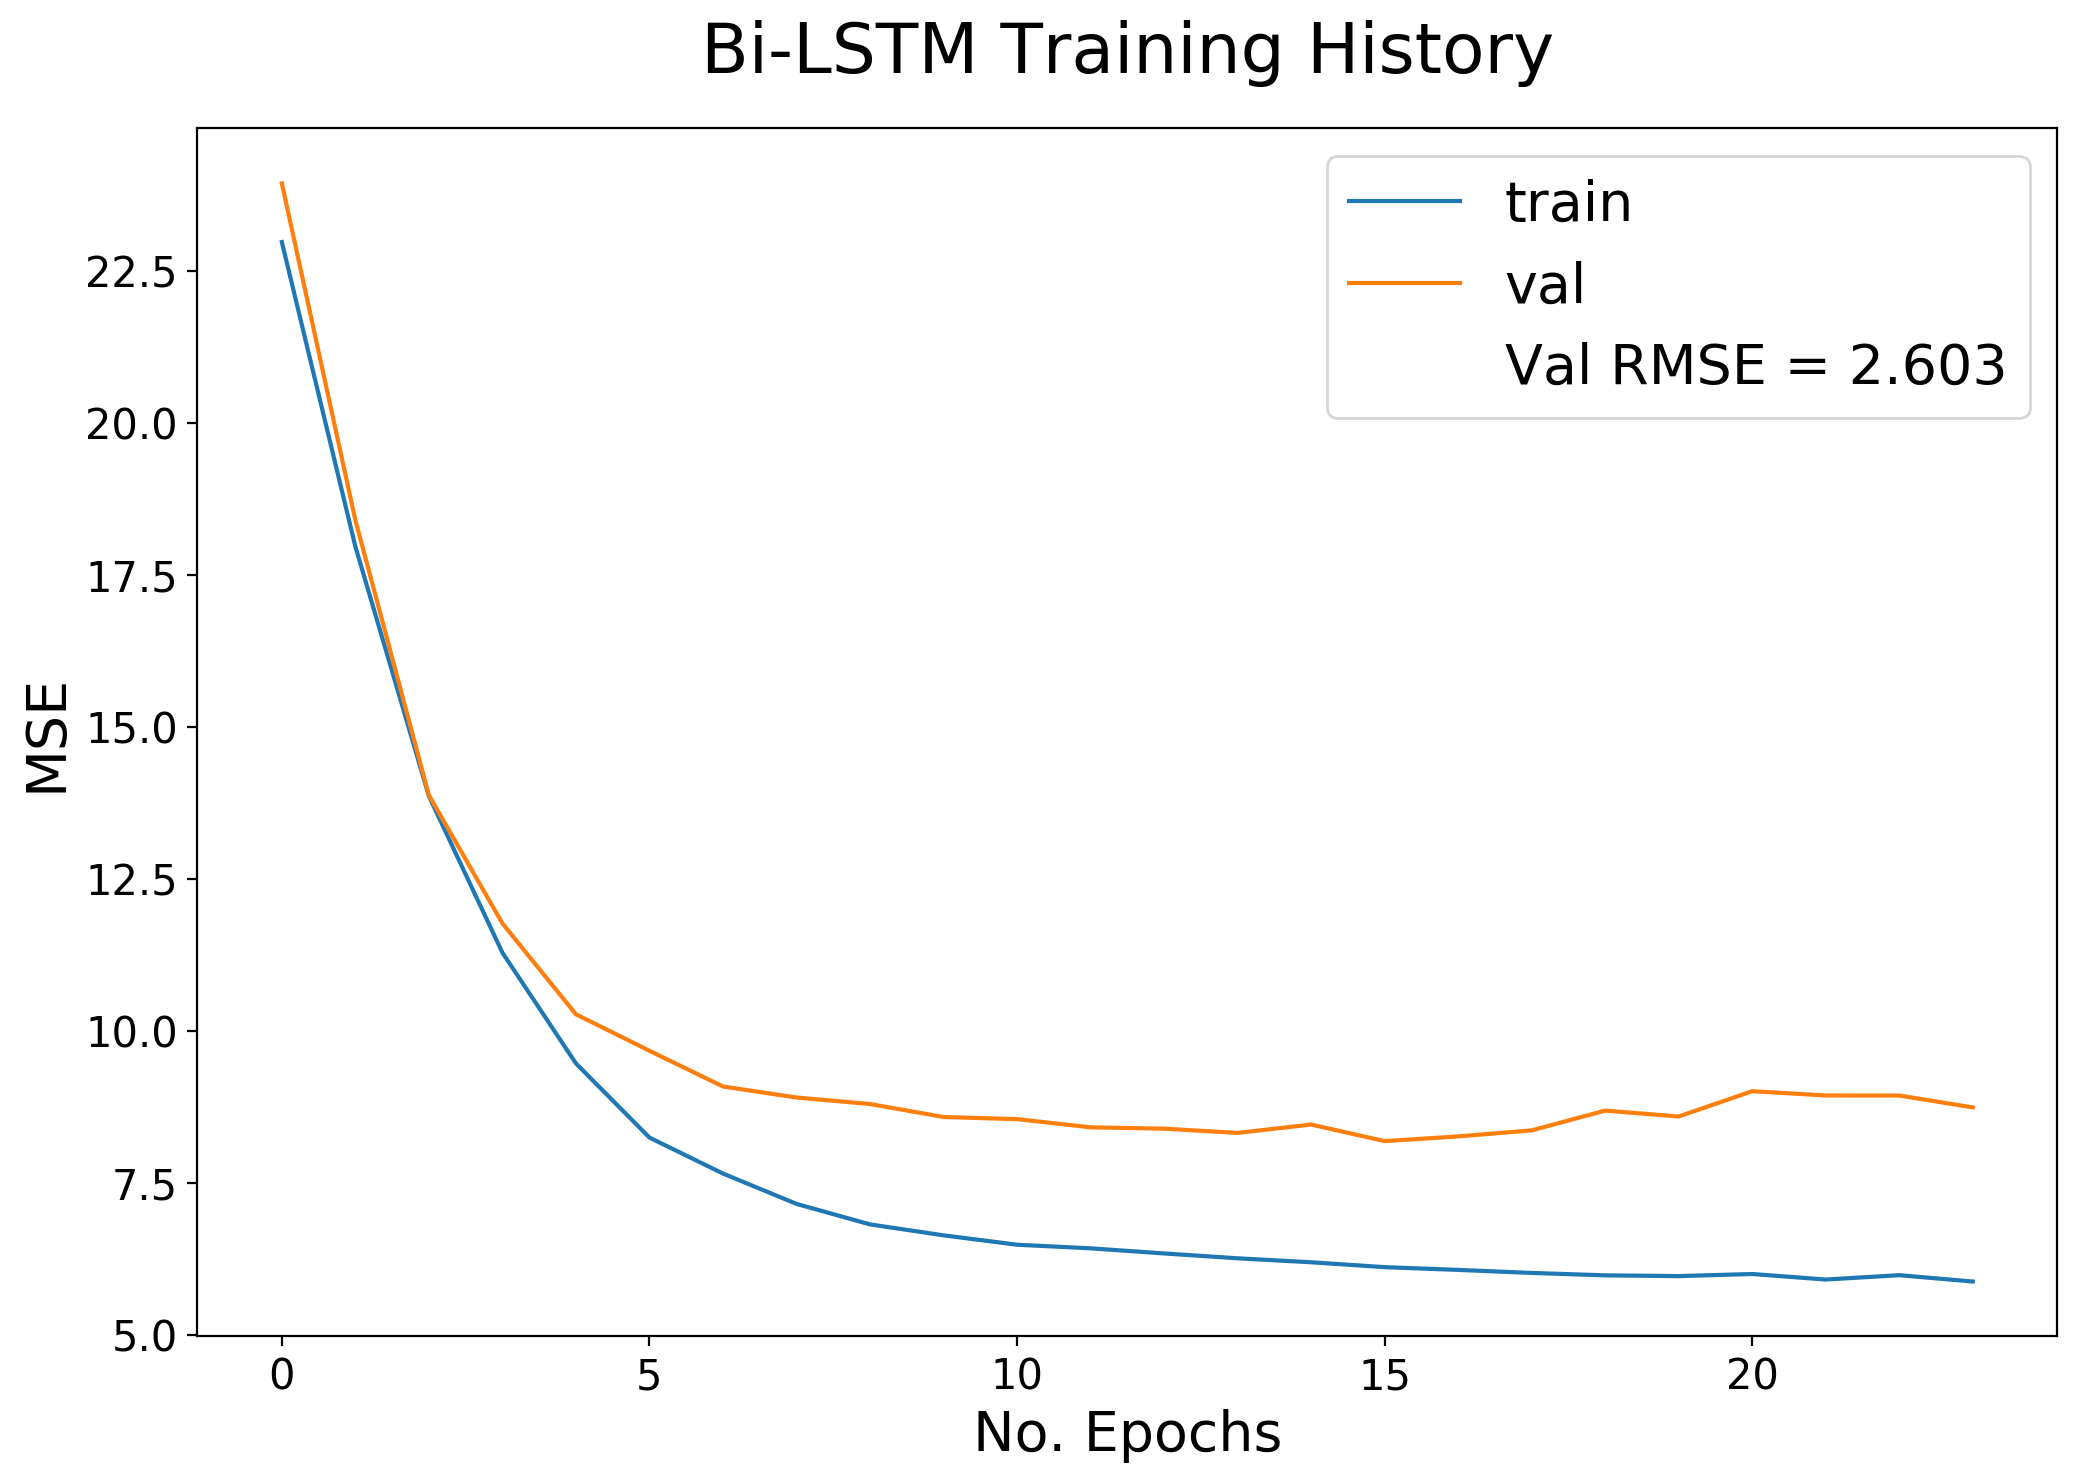
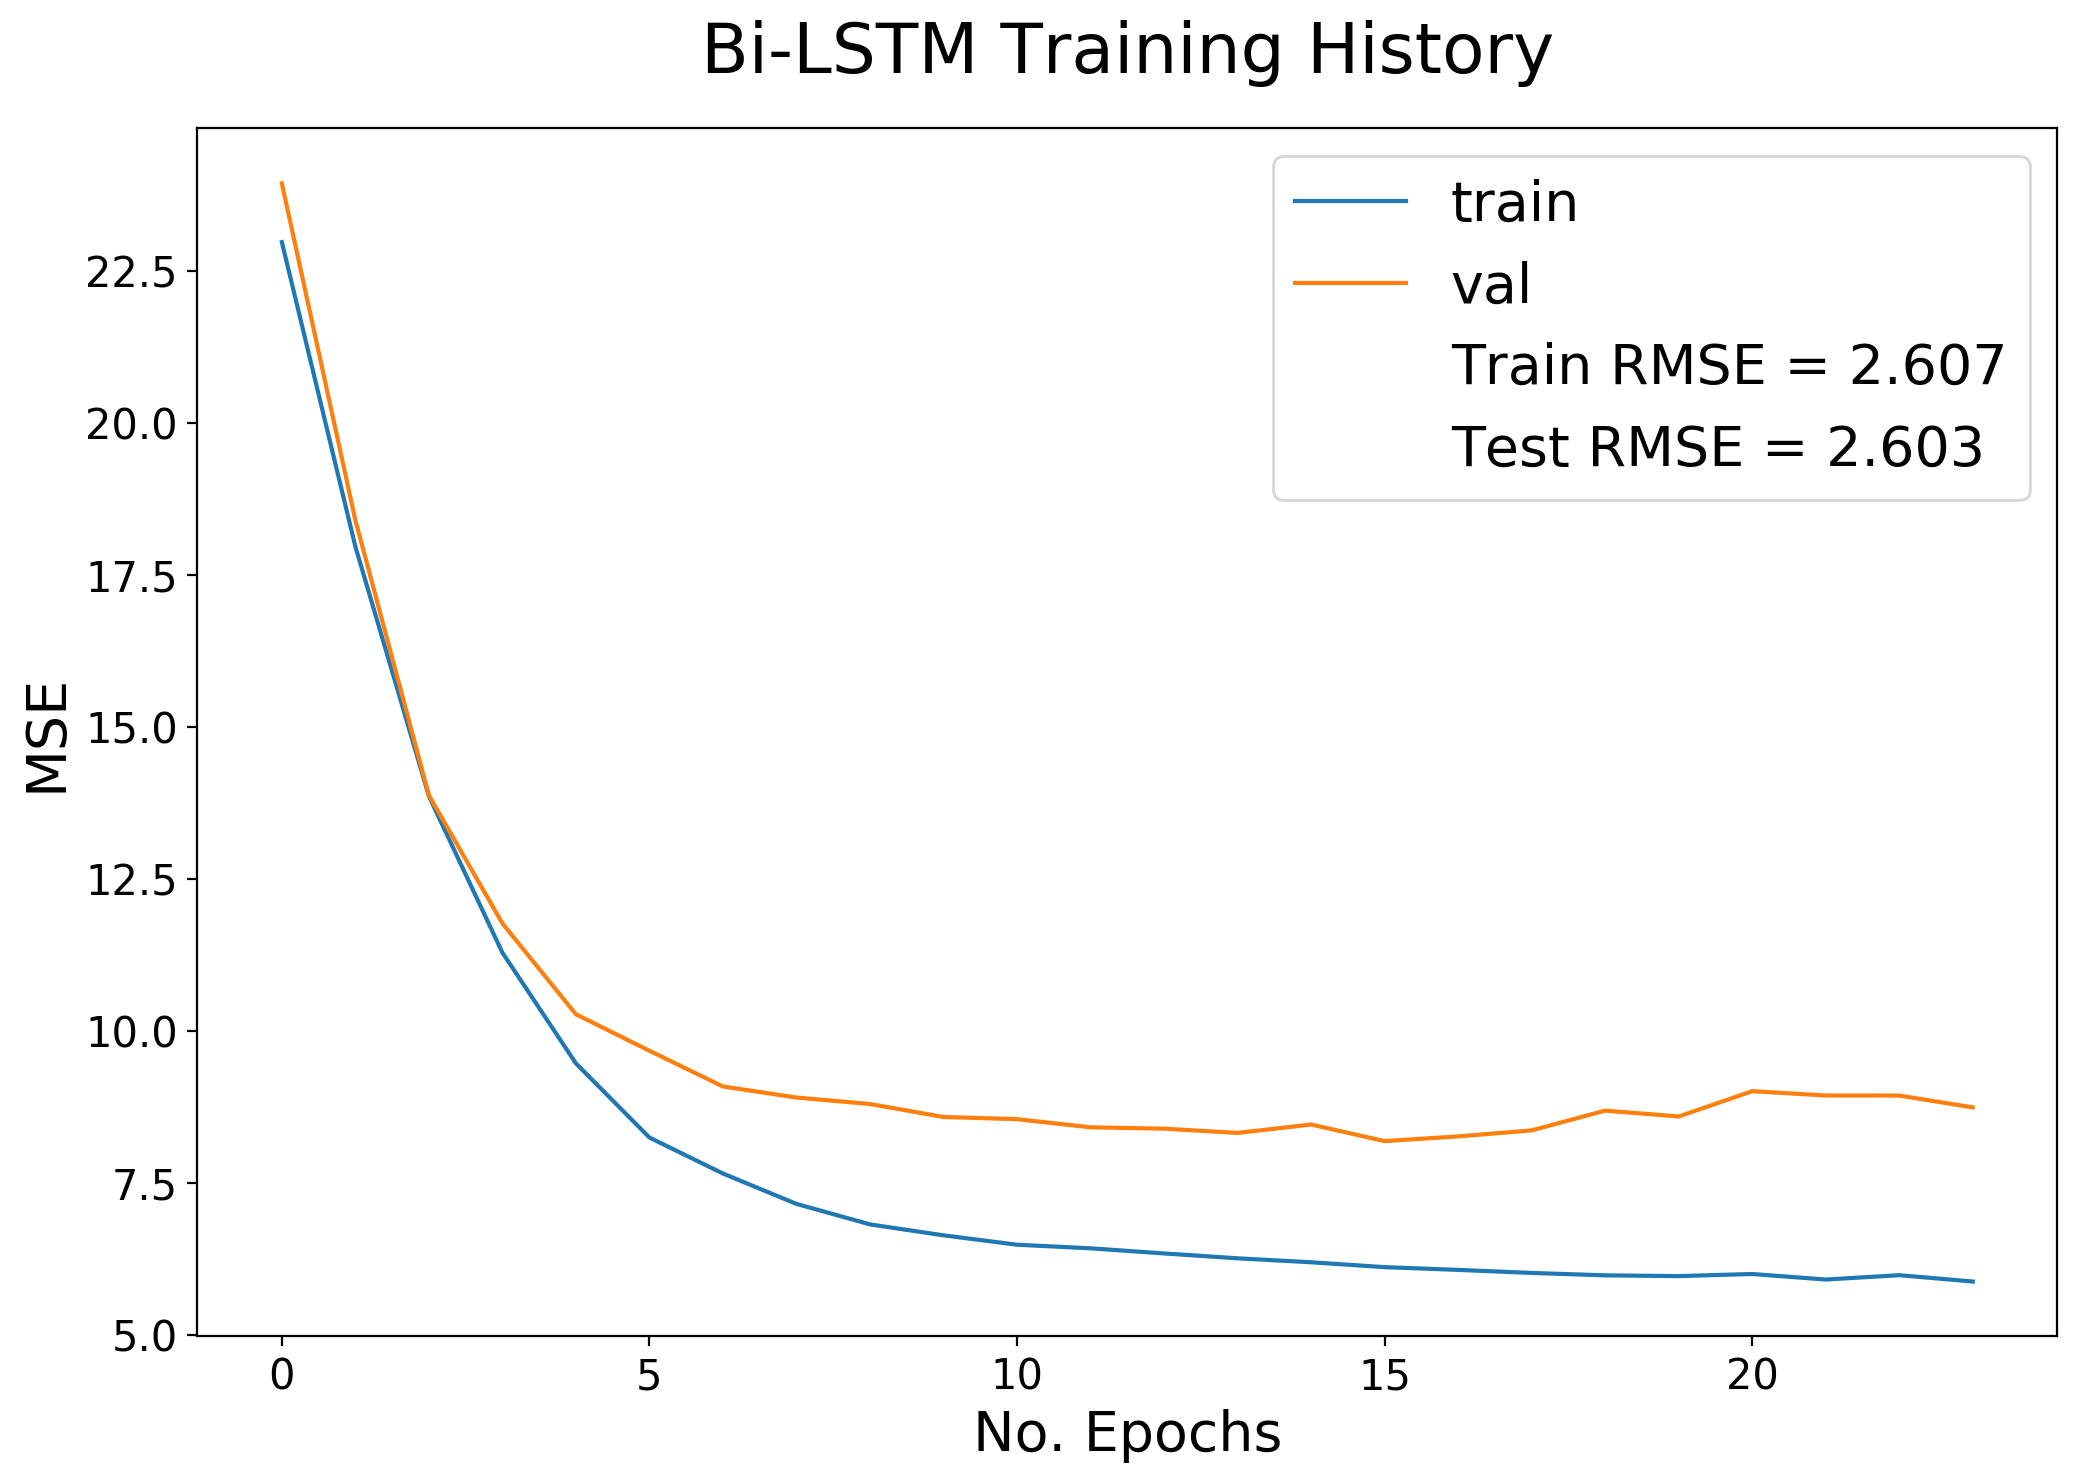
Update training history images

diff --git a/3_prediction.py b/3_prediction.py
@@ -370,15 +370,19 @@ def train_model(model, train_X, train_y, epochs=200, verbose = 2):
                     callbacks=[earlystopping])
     return history
 
-def plot_training_history(model_name, model, history, test_X, test_y):
-    rmse = model.evaluate(test_X, test_y, verbose = 0) ** 0.5
-    print('RMSE (float) = {:.3f}'.format(rmse))
+def plot_training_history(model_name, model, history, train_X, train_y, test_X, test_y):
+    train_rmse = model.evaluate(train_X, train_y, verbose = 0) ** 0.5
+    print('Train RMSE (float) = {:.3f}'.format(train_rmse))
+
+    test_rmse = model.evaluate(test_X, test_y, verbose = 0) ** 0.5
+    print('Test RMSE (float) = {:.3f}'.format(test_rmse))
 
     title = '{} Training History'.format(model_name)
     plt.figure(figsize=(12, 8))
     plt.plot(history.history['loss'], label='train')
     plt.plot(history.history['val_loss'], label='val')
-    plt.plot([], [], ' ', label='Val RMSE = {:.3f}'.format(rmse))
+    plt.plot([], [], ' ', label='Train RMSE = {:.3f}'.format(train_rmse))
+    plt.plot([], [], ' ', label='Test RMSE = {:.3f}'.format(test_rmse))
     plt.legend(fontsize = 20)
     plt.title(title, size = 25, pad=20)
     plt.xlabel('No. Epochs', fontsize = 20)
@@ -566,7 +570,7 @@ fig.savefig(WORKING_DIR + '/results/scores_mean', dpi = 200, bbox_inches = 'tigh
 """Build Single Model"""
 lstm = build_lstm(train_X, train_y)
 history = train_model(lstm, train_X, train_y.values)
-plot_training_history('LSTM', lstm, history, test_X, test_y.values)
+plot_training_history('LSTM', lstm, history, train_X, train_y.values, test_X, test_y.values)
 
 lstm_predict_df = make_prediction(lstm, test_y)
 postprocess_prediction('LSTM', lstm_predict_df)
@@ -577,7 +581,7 @@ plot_model(lstm, to_file=WORKING_DIR + '/images/LSTM.png', show_shapes=True, sho
 
 gru = build_gru(train_X, train_y)
 history = train_model(gru, train_X, train_y.values)
-plot_training_history('GRU', gru, history, test_X, test_y.values)
+plot_training_history('GRU', gru, history, train_X, train_y.values, test_X, test_y.values)
 
 gru_predict_df = make_prediction(gru, test_y)
 postprocess_prediction('GRU', gru_predict_df)
@@ -588,7 +592,7 @@ plot_model(gru, to_file=WORKING_DIR + '/images/GRU.png', show_shapes=True, show_
 
 bi_lstm = build_bi_lstm(train_X, train_y)
 history = train_model(bi_lstm, train_X, train_y.values)
-plot_training_history('Bi-LSTM', bi_lstm, history, test_X, test_y.values)
+plot_training_history('Bi-LSTM', bi_lstm, history, train_X, train_y.values, test_X, test_y.values)
 
 bi_lstm_predict_df = make_prediction(bi_lstm, test_y)
 postprocess_prediction('Bi-LSTM', bi_lstm_predict_df)
